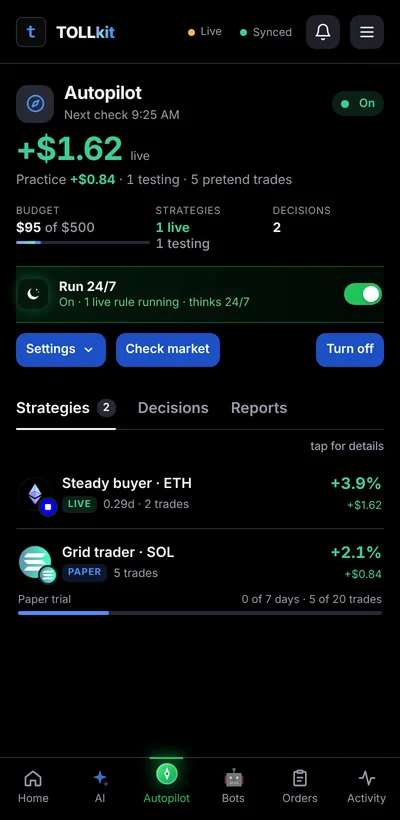
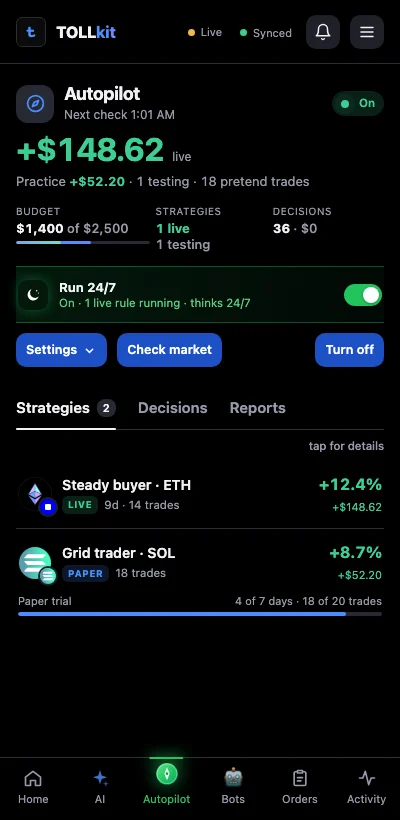
Site: wallet screenshots with bigger example numbers
Home, Autopilot and Bots, made by tollkit-wallet/scripts/site-shots.mts.

diff --git a/wallet.html b/wallet.html
@@ -146,7 +146,7 @@
       <li>See how bots do for other people on the <a href="/bots">bot board</a>.</li>
     </ul>
   </div>
-  <figure class="shot"><img src="/wallet/img/bots.webp" width="400" height="820" loading="lazy" alt="The Bots tab: two bots running, their combined result and next move, and a Buy the dip bot with a price chart showing its buy and take-profit lines and the trade it made."></figure>
+  <figure class="shot"><img src="/wallet/img/bots.webp" width="400" height="820" loading="lazy" alt="The Bots tab with example numbers: two bots running, their combined result, trades today and next move, and a Grid trader bot on SOL with a price chart showing its grid top and bottom."></figure>
 </section>
 
 <section class="feature flip">
